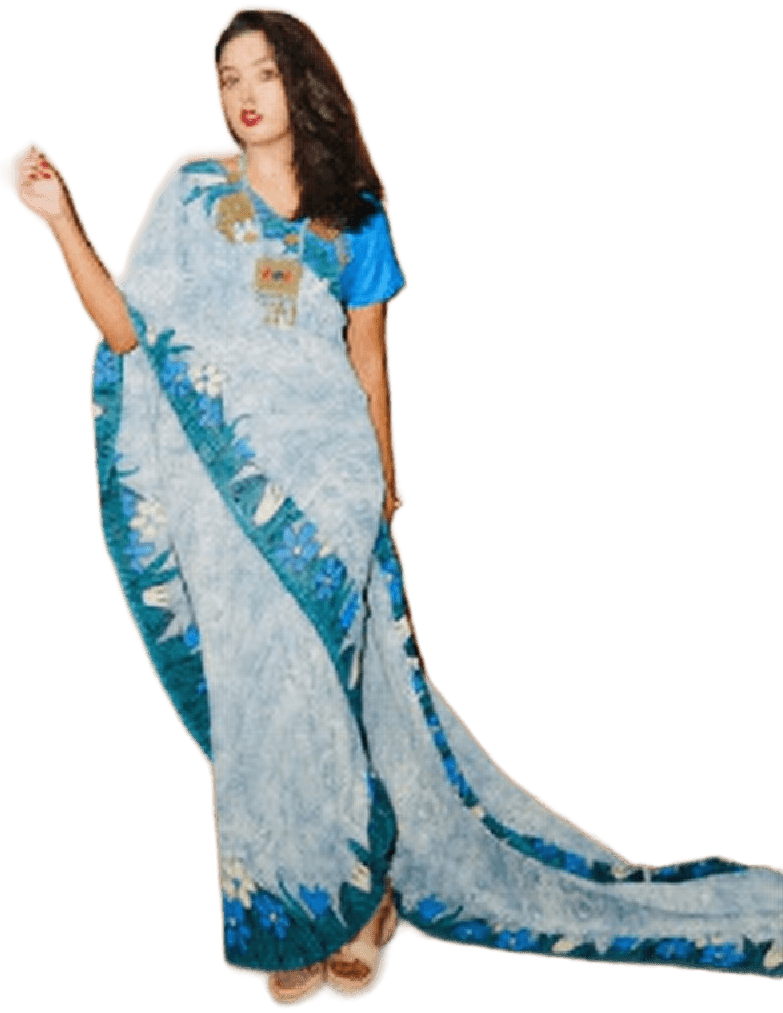
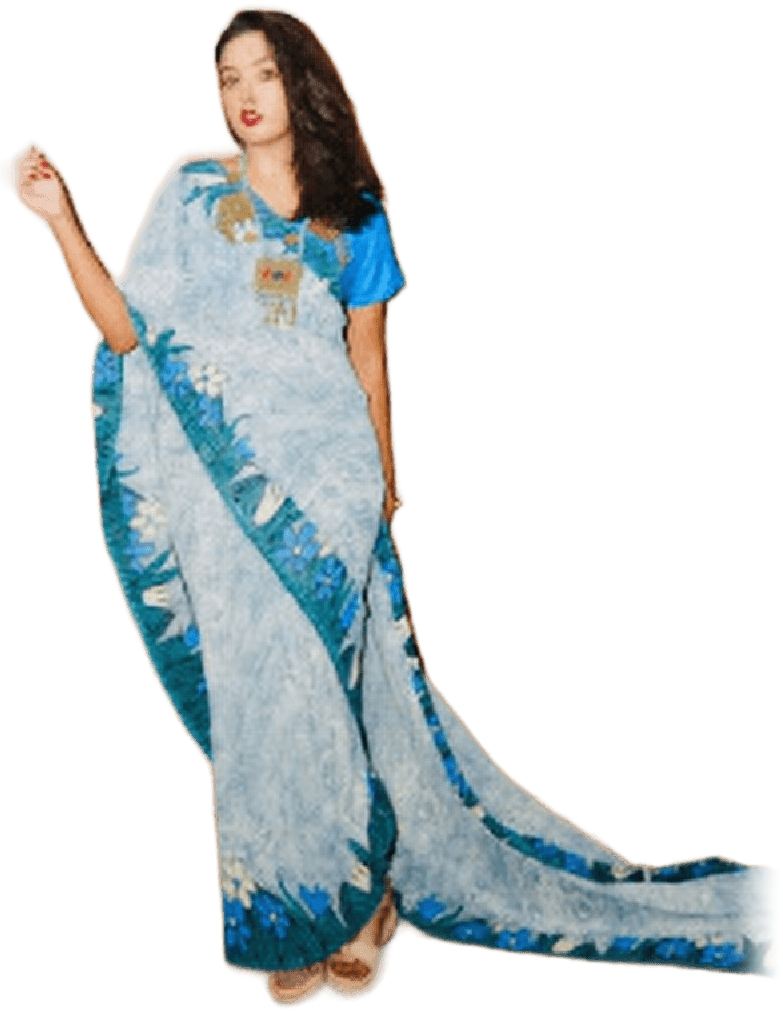
Cutouts: fade photo-cropped side edges too

Changed region(s): [[0.9195, 0.8569, 1.0, 0.9793]]

diff --git a/js/app.js b/js/app.js
@@ -13,7 +13,7 @@ const CATS=[["all","View All"],["best","Best Sellers"],["new","New Arrivals"],["
 const inCat=(p,c)=>c==="all"||(c==="best"?COL.best.includes(p.id):c==="new"?COL.new.includes(p.id):p.cat===c);
 
 /* ---------- media ---------- */
-function media(p){const m=MEDIA[p.id]||{};const photos=[];for(let i=0;i<(m.photos||0);i++)photos.push(`images/products/${p.id}${i?"-"+(i+1):""}.jpg?v=hd`);return{cut:m.cut?m.cut+"?v=6":null,photos}}
+function media(p){const m=MEDIA[p.id]||{};const photos=[];for(let i=0;i<(m.photos||0);i++)photos.push(`images/products/${p.id}${i?"-"+(i+1):""}.jpg?v=hd`);return{cut:m.cut?m.cut+"?v=7":null,photos}}
 const hasPic=p=>{const m=media(p);return !!(m.cut||m.photos.length)};
 const MARK='<img src="images/peacock.png" alt="" aria-hidden="true">';
 function thumbHTML(p){const m=media(p);return m.cut?`<img src="${m.cut}" alt="${esc(p.name)}">`:m.photos[0]?`<img class="cv" src="${m.photos[0]}" alt="${esc(p.name)}">`:MARK}
